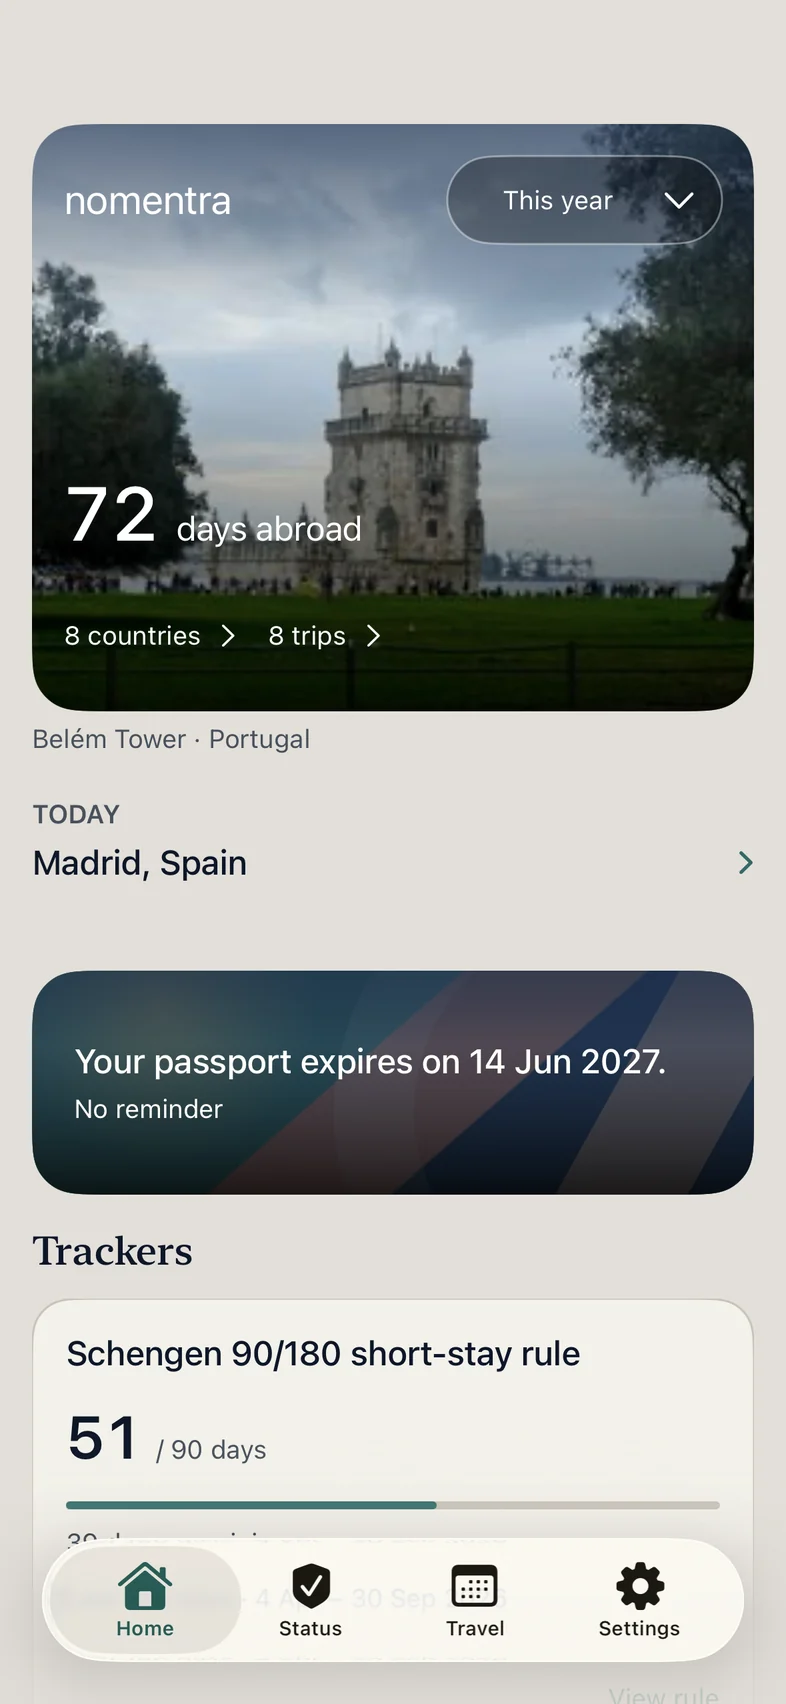
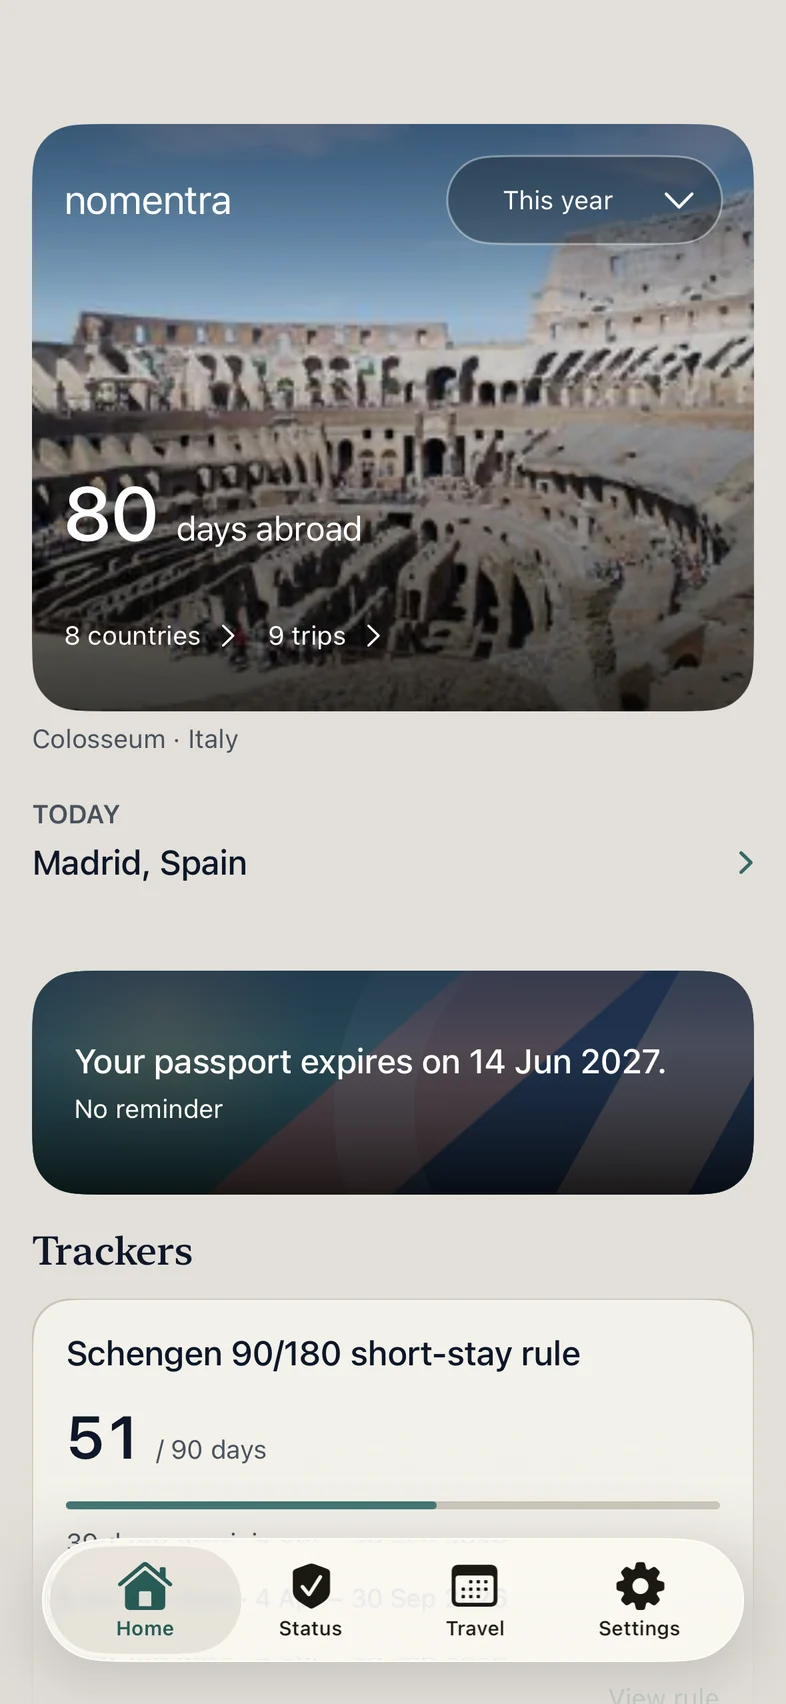
Homepage: add Achievements, Deadlines and tracker-builder captures
Second row of app screens to back up the new points; all six captures
regenerated from one synthetic run so their numbers agree (80 days
abroad, 8 countries, 9 trips). Sharing image regenerated.

Changed region(s): [[0.0305, 0.0622, 0.9771, 0.4354]]

diff --git a/index.html b/index.html
@@ -43,11 +43,11 @@
     </div>
     <figure class="phones">
       <div class="phones-row">
-        <div class="phone"><img src="assets/app-home.webp" width="786" height="1704" alt="Nomentra’s Home screen: 72 days abroad this year across 8 countries and 8 trips, today in Madrid, Spain, a passport expiry date, and a Schengen tracker at 51 of 90 days."></div>
-        <div class="phone"><img src="assets/app-status.webp" width="786" height="1704" alt="Nomentra’s Status screen with trackers: 51 of 90 Schengen days used with 39 remaining, and 72 days abroad this year."></div>
+        <div class="phone"><img src="assets/app-home.webp" width="786" height="1704" alt="Nomentra’s Home screen: 80 days abroad this year across 8 countries and 9 trips, today in Madrid, Spain, a passport expiry date, and a tracker showing 51 of 90 days."></div>
+        <div class="phone"><img src="assets/app-status.webp" width="786" height="1704" alt="Nomentra’s Status screen with trackers: one at 51 of 90 days with 39 remaining, another at 21 of 90 days with 69 remaining."></div>
         <div class="phone"><img src="assets/app-travel.webp" width="786" height="1704" alt="Nomentra’s Travel screen showing 2026 month by month, with country flags and days abroad for each month from January to September."></div>
       </div>
-      <figcaption>Nomentra, shown with sample data.</figcaption>
+      <figcaption>Home, Trackers and Travel in Nomentra, shown with sample data.</figcaption>
     </figure>
   </div>
 
@@ -81,6 +81,15 @@
       </ul>
     </div>
   </section>
+
+  <figure class="wrap phones more">
+    <div class="phones-row">
+      <div class="phone"><img src="assets/app-achievements.webp" width="786" height="1704" loading="lazy" alt="Nomentra’s Achievements: 8 of 197 countries, 3 of 7 continents, 11 UNESCO World Heritage sites and 3 of 51 US states."></div>
+      <div class="phone"><img src="assets/app-deadlines.webp" width="786" height="1704" loading="lazy" alt="Nomentra’s Deadlines: a passport expiry in 257 days and a travel authorisation expiring in 466 days, each on a timeline."></div>
+      <div class="phone"><img src="assets/app-builder.webp" width="786" height="1704" loading="lazy" alt="Nomentra’s tracker builder asking what you want to keep an eye on: stay under a limit, reach a goal, just count my days, or never miss a date."></div>
+    </div>
+    <figcaption>Achievements, Deadlines and the tracker builder, shown with sample data.</figcaption>
+  </figure>
 
   <div class="wrap closing">
     <section aria-labelledby="private-title">

diff --git a/style.css b/style.css
@@ -73,6 +73,11 @@ p:last-child{margin-bottom:0}
 .phone:nth-child(2){margin-top:36px}
 .phone:nth-child(3){display:none}
 .phones figcaption{margin-top:18px;font-size:13px;color:var(--ink-2);text-align:center}
+.phones.more{margin:0 auto;padding-top:56px}
+.phones.more .phones-row{flex-wrap:wrap;row-gap:20px}
+.phones.more .phone{flex:0 1 calc(50% - 7px);max-width:272px}
+.phones.more .phone:nth-child(2){margin-top:0}
+.phones.more .phone:nth-child(3){display:block}
 
 /* Home — benefits */
 .benefits{background:var(--band);padding-top:56px;padding-bottom:56px}
@@ -116,6 +121,9 @@ p:last-child{margin-bottom:0}
 @media (min-width:640px){
   .phone:nth-child(3){display:block}
   .phones-row{gap:20px}
+  .phones.more .phones-row{flex-wrap:nowrap}
+  .phones.more .phone{flex:0 1 272px}
+  .phones.more .phone:nth-child(2){margin-top:36px}
   .benefit-grid{grid-template-columns:repeat(2,minmax(0,1fr));gap:36px 32px}
 }
 @media (min-width:860px){
@@ -126,6 +134,7 @@ p:last-child{margin-bottom:0}
   .phone img{border-radius:32px}
   .benefits{padding-top:72px;padding-bottom:72px}
   .benefit-grid{grid-template-columns:repeat(3,minmax(0,1fr));gap:44px 40px}
+  .phones.more{padding-top:80px}
   .closing{grid-template-columns:repeat(2,minmax(0,1fr));gap:40px 56px;padding-top:72px;padding-bottom:88px}
   .closing .note{grid-column:1 / -1}
   .doc{padding-top:32px;padding-bottom:96px}

diff --git a/README.md b/README.md
@@ -9,13 +9,13 @@ Static website for Nomentra: plain HTML and one stylesheet. No build step, no sc
 | `support/index.html` | Support — https://nomentra.app/support |
 | `404.html` | Not-found page (served by GitHub Pages) |
 | `style.css` | Shared style. Colours are the app's Phase B tokens from `Nomentra/DesignSystem/DesignSystemColorTokens.swift`; type is system serif (New York) for titles and system sans (SF Pro) for text |
-| `assets/` | App icon sizes, the sharing image (`og.png`) and three app captures |
+| `assets/` | App icon sizes, the sharing image (`og.png`) and six app captures |
 | `favicon.ico`, `favicon-32.png`, `apple-touch-icon.png` | Icons, made from the app's `AppIcon-Light-1024.png` |
 | `CNAME`, `.nojekyll`, `robots.txt` | GitHub Pages custom domain, no Jekyll processing, allow indexing |
 
 ## Sources
 
-- **App captures** (`assets/app-home.webp`, `app-status.webp`, `app-travel.webp`): real renders of the app at commit `0c760521`, mounted by a throwaway capture test with synthetic data only (a UK traveller, eight trips in 2026, a Schengen tracker, two personal trackers and a passport deadline). No personal data. Full-size originals and `notes.md` are in `/Users/ossianhouse/APP Dev/nomentra-site-captures/`.
+- **App captures** (`assets/app-home.webp`, `app-status.webp`, `app-travel.webp`, `app-achievements.webp`, `app-deadlines.webp`, `app-builder.webp`): real renders of the app at commit `0c760521`, mounted by a throwaway capture test with synthetic data only (a UK traveller, nine trips in 2026, preset and personal trackers, two deadlines, five achievements). No personal data. Full-size originals and `notes.md` are in `/Users/ossianhouse/APP Dev/nomentra-site-captures/`.
 - **Privacy Policy**: written from the app source on `main` at `f0210f43` (1 October 2026), approved wording in `docs/PRD_wording.md`, Feature PRD 13 and WEB-01/02 in `docs/plan/settings-release-simplification.md`. Re-check it whenever the app's data practices change, and change the “Last updated” date.
 - **Review**: reconciled against app main `1ca17eda` on 1 October 2026 (`Nomentra-clean/docs/audits/website-source-review-2026-10-01.md`). Send feedback and the privacy link are implemented on main; distribution and website publication are separate.
 
